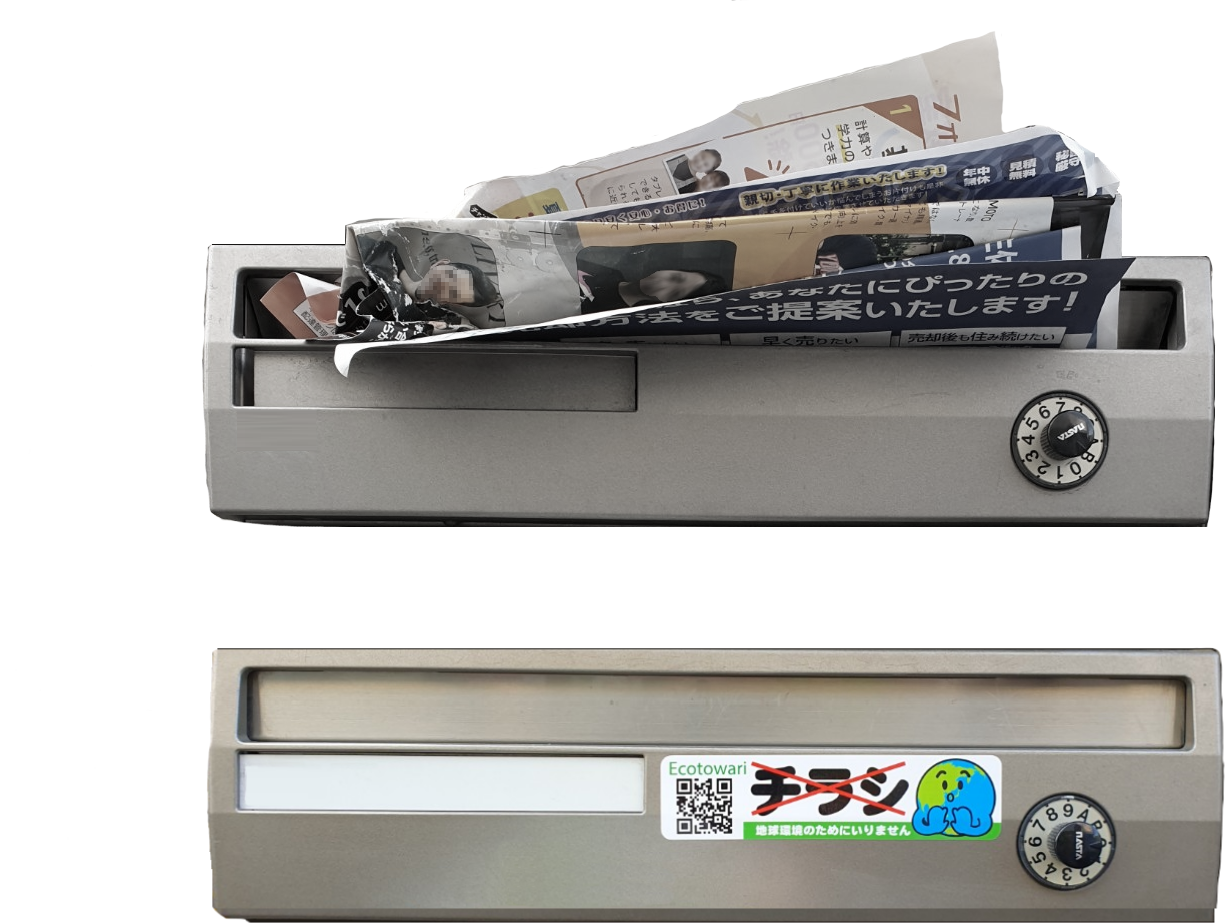
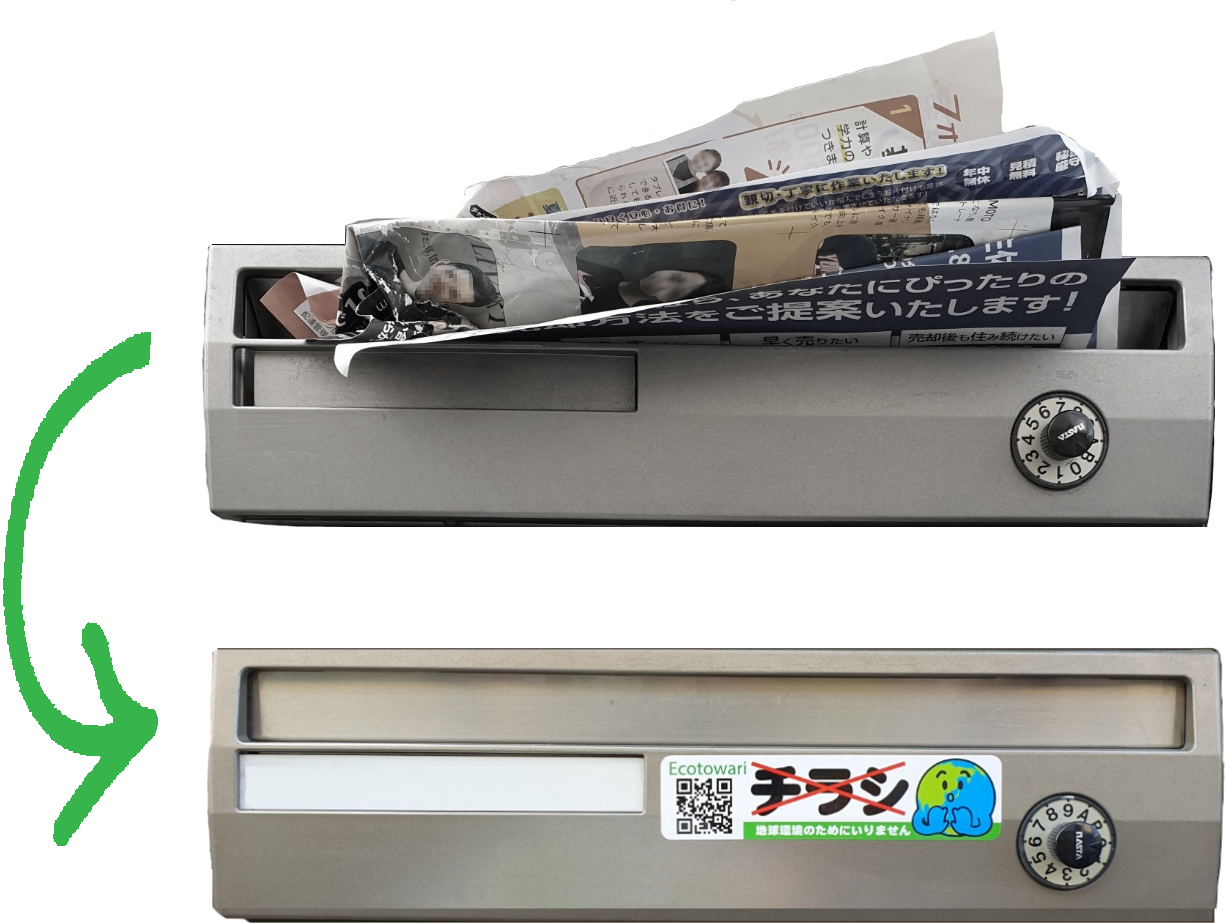
refactor: update home page to new sitemap structure

Changed region(s): [[0.0, 0.364, 0.1241, 0.9101]]

diff --git a/web/pages/index.tsx b/web/pages/index.tsx
@@ -13,6 +13,7 @@ import Statistics from '../modules/sections/Statistics'
 import GetStickerCTA from '../modules/sections/GetStickerCTA'
 // import LatestNews from "../modules/sections/LatestNews"
 import FollowUs from '../modules/sections/FollowUs'
+import SentenceSummary from '../modules/sections/SentenceSummary'
 
 // Get the main template for standard pages
 Index.getLayout = function getStaticProps(page: ReactElement) {
@@ -92,27 +93,27 @@ export default function Index({posts, stickers, igPosts, homePage}) {
           subtitle={headersection.subtitle[router.locale]}
           buttonPath={headersection.buttonpath}
           buttonText={headersection.buttontext[router.locale]}
-          img={'/mailbox-split.png'}
+          img={'/mailbox-split-green.png'}
         />
       </Container>
 
       {/* 1 Sentence Summary */}
-      <Container wrapperClass="min-h-100 d-flex align-items-center bg-1">
-        <AboutEcotowari data={aboutsection} />
+      <Container wrapperClass="d-flex align-items-center bg-1">
+        <SentenceSummary data={aboutsection} />
       </Container>
 
       {/* Ecotowari Positive Impact */}
-      <Container wrapperClass="min-h-100 d-flex align-items-center ">
+      <Container wrapperClass="d-flex align-items-center bg-2 ">
         <Statistics stickers={stickers} data={statisticsection} />
       </Container>
 
       {/* CTA */}
-      <Container wrapperClass="min-h-100 header-wrapper d-flex align-items-center bg-3">
+      <Container wrapperClass="header-wrapper d-flex align-items-center bg-3">
         <GetStickerCTA data={ctasection} />
       </Container>
 
       {/* Socials */}
-      <Container wrapperClass="min-h-100 d-flex align-items-center bg-2">
+      <Container wrapperClass="d-flex align-items-center bg-2">
         <FollowUs data={followsection} />
       </Container>
 

diff --git a/web/modules/sections/SentenceSummary.tsx b/web/modules/sections/SentenceSummary.tsx
@@ -1,0 +1,29 @@
+import React from 'react'
+import PropTypes from 'prop-types'
+
+SentenceSummary.propTypes = {
+  data: PropTypes.object,
+}
+
+export default function SentenceSummary({data}) {
+  return (
+    <div className="row">
+      <div className="col-md-12">
+        <blockquote className="blockquote">
+          <h4>
+            ecotowari is an initiative to tackle the waste generated by flyers through a mailbox
+            sticker.
+          </h4>
+        </blockquote>
+        <p>
+          With tests carried out all around Tokyo, we have seen reduction rates of over 99%. <br />{' '}
+          <br />
+          Our early supporters have received virtually 0 flyers. With a cute and efficient sticker
+          working for you in the background, you know that the next time you will open your mailbox,
+          it will be to see the mail that matters!
+        </p>
+        {/* <p>{data.content[router.locale]}</p> */}
+      </div>
+    </div>
+  )
+}

diff --git a/web/modules/sections/Statistics.tsx b/web/modules/sections/Statistics.tsx
@@ -23,7 +23,7 @@ export default function Statistics({stickers, data}) {
     <div id="portfolio" className="h-100 text-center justify-content-center">
       <div className="row">
         <div className="offset-md-2 col-md-8">
-          <span className="preTitle">Ecotowari in Numbers</span>
+          <span className="preTitle">How We Help</span>
           <h2>{data.title[router.locale]}</h2>
           <pre>{data.content[router.locale]}</pre>
         </div>

diff --git a/web/styles/styles.scss b/web/styles/styles.scss
@@ -3,8 +3,8 @@ $enable-gradients: false;
 $enable-shadows: true;
 
 // Customize Boostrap Body
-$body-bg: hsl(210, 20%, 100%);
-$body-bg-2: darken($body-bg, 1%);
+$body-bg: hsl(210, 1%, 100%);
+$body-bg-2: darken($body-bg, 3%);
 $grid-gutter-width: 3rem;
 
 // Customize Boostrap Colors
